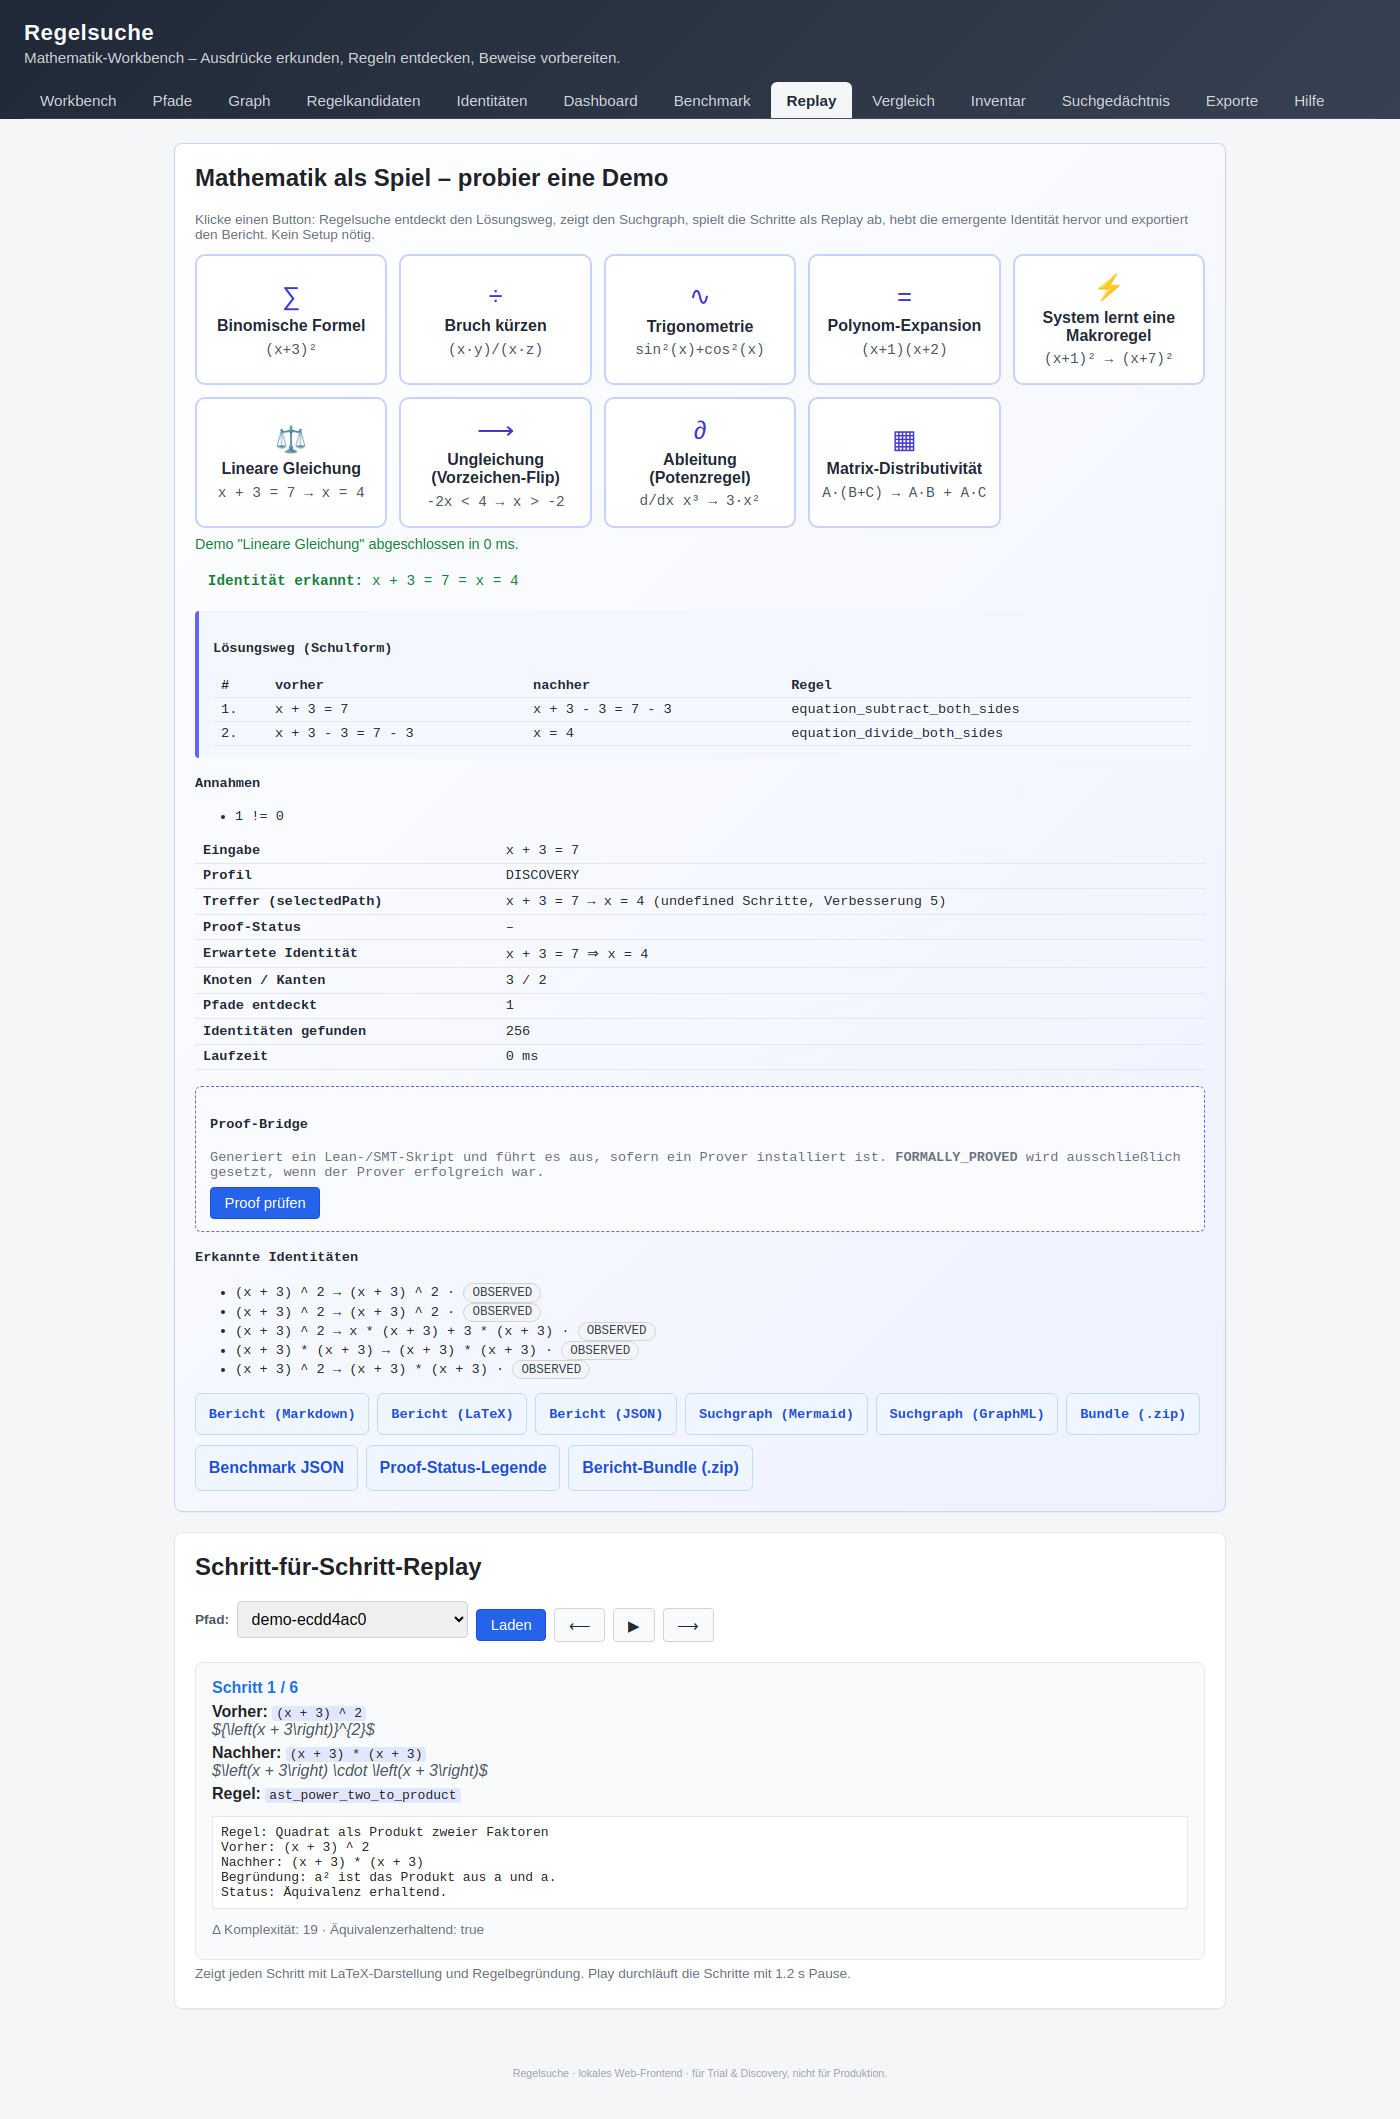
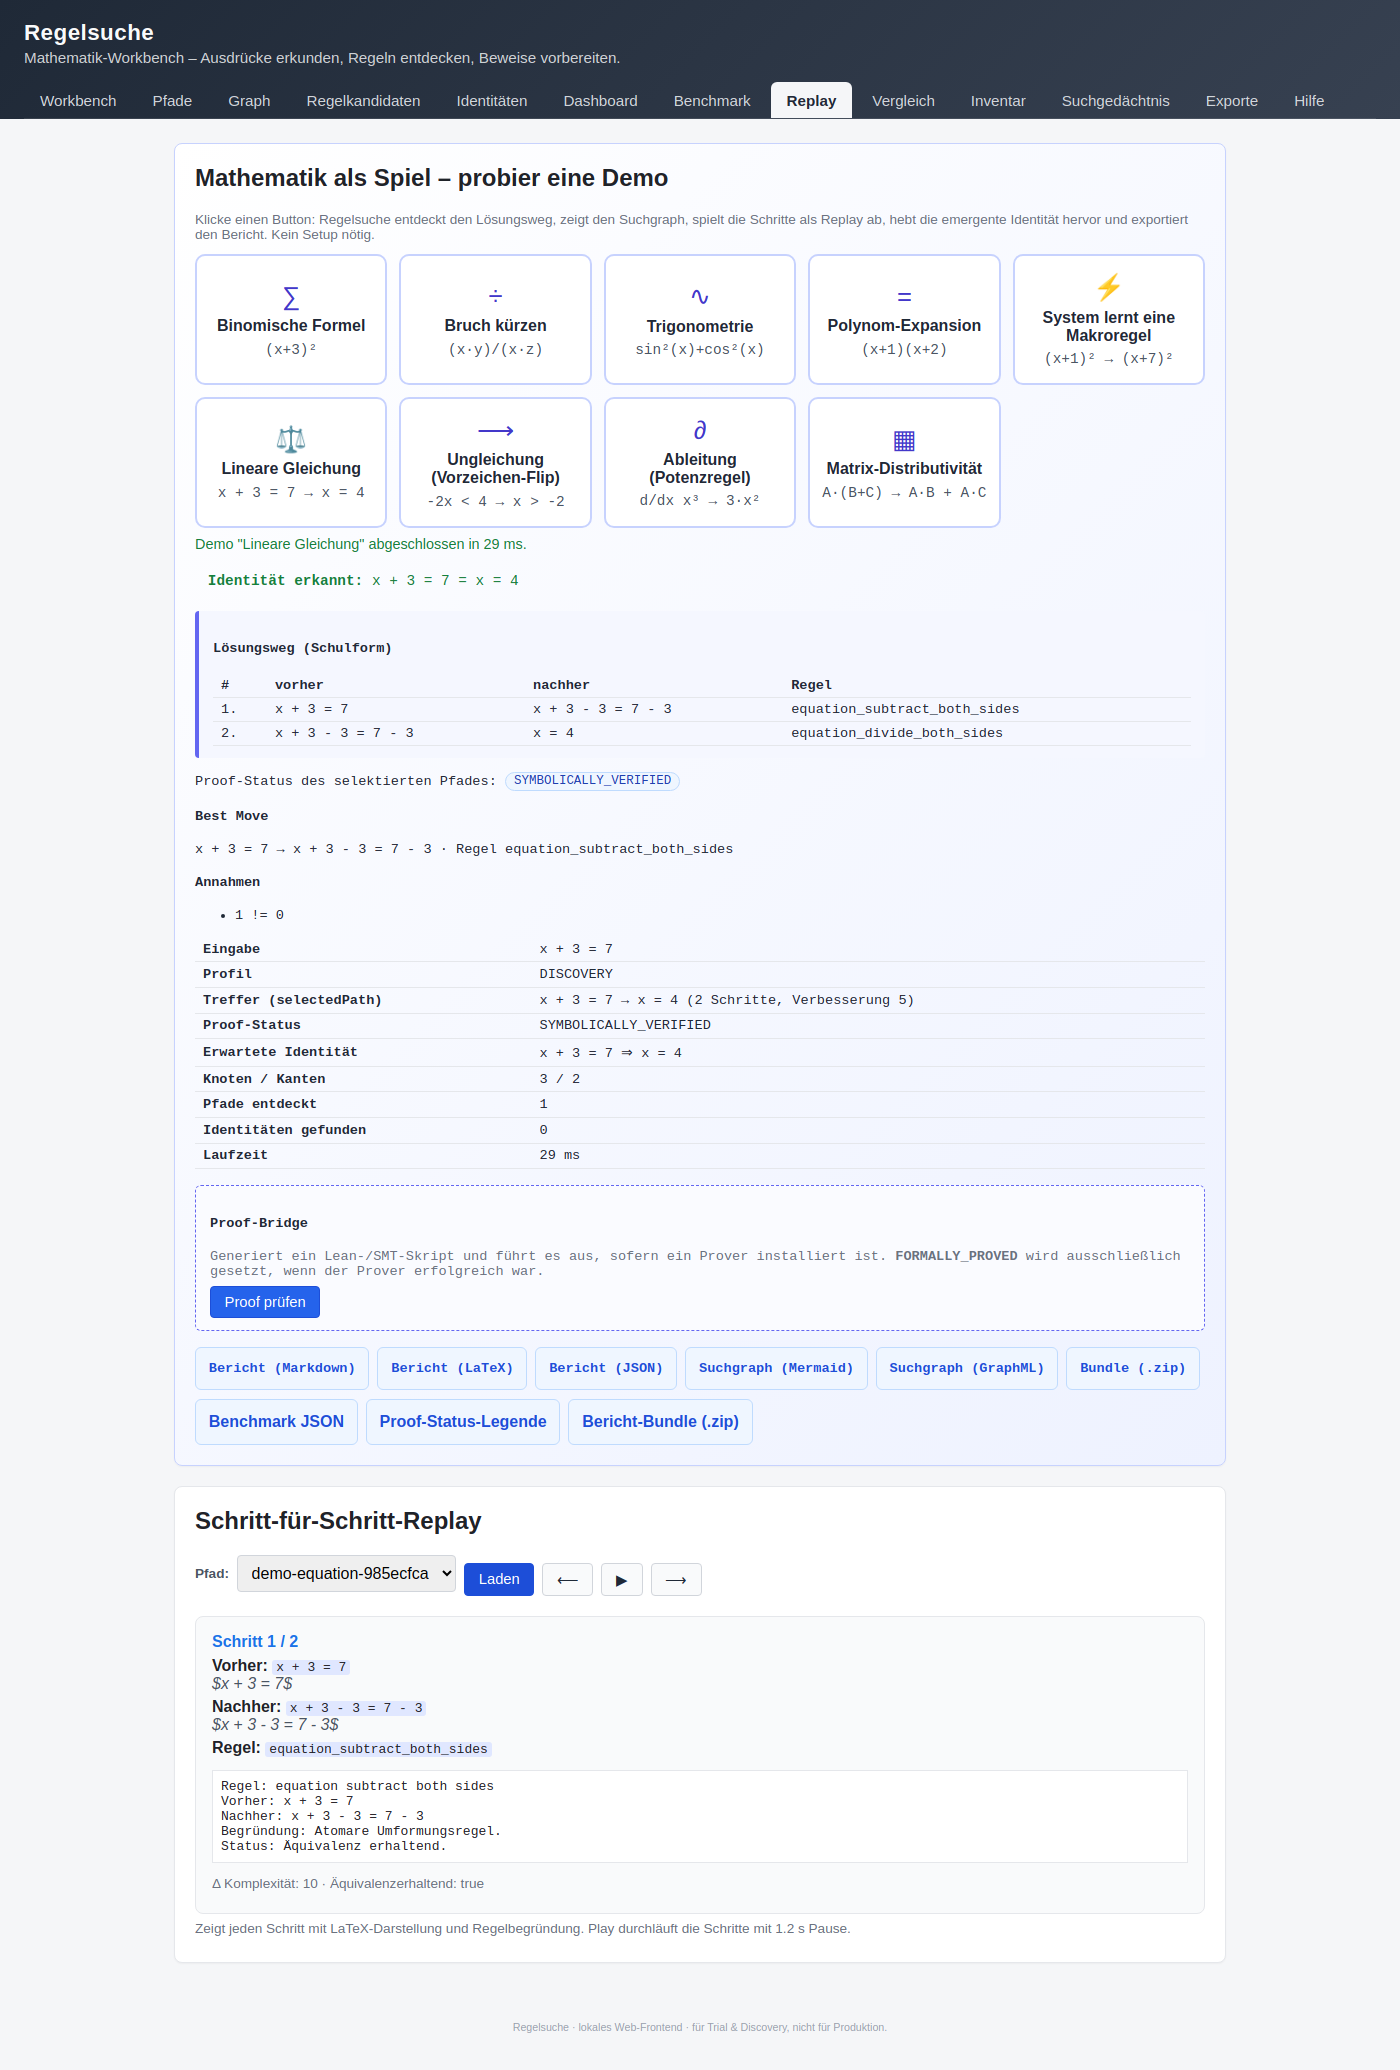
fix review follow-ups for proof bridge wiring, demo summary fields, and inequality soundness
Agent-Logs-Url: https://github.com/carstenartur/Regelsuche/sessions/8728372a-1311-4603-a06e-9c7bb78939f5

diff --git a/app/src/main/resources/web/app.js b/app/src/main/resources/web/app.js
@@ -125,6 +125,13 @@
         const identities = (data.identities || []).slice(0, 5);
         const targetReached = !!data.targetReached;
         const assumptions = data.assumptions || [];
+        const stepDetails = Array.isArray(selected.stepDetails)
+            ? selected.stepDetails
+            : (Array.isArray(selected.steps) ? selected.steps : []);
+        const stepCount = typeof selected.steps === 'number'
+            ? selected.steps
+            : stepDetails.length;
+        const proofStatus = selected.proofStatus || selected.validationStatus || '';
 
         // Honest banner: identity recognised OR "no identity found, best path was…".
         const banner = targetReached
@@ -143,15 +150,15 @@
                     : '<em>kein Verbesserungsweg im Suchbudget gefunden</em>')
                 + '</div>';
 
-        const proofTag = selected.validationStatus
-            ? renderProofStatusBadge(selected.validationStatus)
+        const proofTag = proofStatus
+            ? renderProofStatusBadge(proofStatus)
             : '';
         const assumptionsBlock = assumptions.length
             ? '<h4>Annahmen</h4><ul>' + assumptions.map((a) =>
                 '<li><code>' + escapeHtml(a) + '</code></li>').join('') + '</ul>'
             : '';
-        const bestMove = (selected.steps && selected.steps.length)
-            ? selected.steps[0]
+        const bestMove = stepDetails.length
+            ? stepDetails[0]
             : null;
         const bestMoveBlock = bestMove
             ? '<h4>Best Move</h4><p><code>' + escapeHtml(bestMove.beforeExpression || '')
@@ -165,10 +172,10 @@
             ['Treffer (selectedPath)',
                 selected.improvedExpression
                     ? selected.originalExpression + ' → ' + selected.improvedExpression
-                      + ' (' + (selected.steps ? selected.steps.length : 0) + ' Schritte, Verbesserung '
+                      + ' (' + stepCount + ' Schritte, Verbesserung '
                       + (selected.totalImprovement || 0) + ')'
                     : '–'],
-            ['Proof-Status', selected.validationStatus || '–'],
+            ['Proof-Status', proofStatus || '–'],
             ['Erwartete Identität', data.expectedHighlight || ''],
             ['Knoten / Kanten', (m.nodes || 0) + ' / ' + (m.edges || 0)],
             ['Pfade entdeckt', m.pathsDiscovered || 0],

diff --git a/app/src/main/java/de/regelsuche/web/WebWorkbenchServer.java b/app/src/main/java/de/regelsuche/web/WebWorkbenchServer.java
@@ -72,6 +72,8 @@ public class WebWorkbenchServer {
     private final ExportQueryService exportQuery;
     private final ExplanationService explanationService = new ExplanationService();
     private final de.regelsuche.search.memory.SearchMemory searchMemory;
+    private final de.regelsuche.proof.ProofBridgeService leanProofBridgeService;
+    private final de.regelsuche.proof.ProofBridgeService smtProofBridgeService;
 
     private HttpServer server;
 
@@ -105,6 +107,22 @@ public class WebWorkbenchServer {
         WebSecurityConfig securityConfig,
         de.regelsuche.search.memory.SearchMemory searchMemory
     ) {
+        this(host, port, graphStore, inventoryRepository, exportService, securityConfig, searchMemory,
+            defaultProofBridgeService(new de.regelsuche.proof.LeanProofBridge()),
+            defaultProofBridgeService(new de.regelsuche.proof.SmtProofBridge()));
+    }
+
+    public WebWorkbenchServer(
+        String host,
+        int port,
+        ExpressionGraphStore graphStore,
+        RuleInventoryRepository inventoryRepository,
+        TransformationExportService exportService,
+        WebSecurityConfig securityConfig,
+        de.regelsuche.search.memory.SearchMemory searchMemory,
+        de.regelsuche.proof.ProofBridgeService leanProofBridgeService,
+        de.regelsuche.proof.ProofBridgeService smtProofBridgeService
+    ) {
         this.host = host;
         this.port = port;
         this.graphStore = graphStore;
@@ -112,9 +130,21 @@ public class WebWorkbenchServer {
         this.exportService = exportService;
         this.securityConfig = securityConfig == null ? WebSecurityConfig.none() : securityConfig;
         this.searchMemory = searchMemory == null ? new de.regelsuche.search.memory.SearchMemory() : searchMemory;
+        this.leanProofBridgeService = leanProofBridgeService == null
+            ? defaultProofBridgeService(new de.regelsuche.proof.LeanProofBridge())
+            : leanProofBridgeService;
+        this.smtProofBridgeService = smtProofBridgeService == null
+            ? defaultProofBridgeService(new de.regelsuche.proof.SmtProofBridge())
+            : smtProofBridgeService;
         this.transformationQuery = new TransformationQueryService(graphStore);
         this.inventoryQuery = new RuleInventoryQueryService(graphStore, inventoryRepository);
         this.exportQuery = new ExportQueryService(graphStore, inventoryRepository);
+    }
+
+    private static de.regelsuche.proof.ProofBridgeService defaultProofBridgeService(
+        de.regelsuche.proof.ProofBridge bridge
+    ) {
+        return new de.regelsuche.proof.ProofBridgeService(bridge);
     }
 
     public void start() throws IOException {
@@ -1090,6 +1120,7 @@ public class WebWorkbenchServer {
                 new de.regelsuche.transform.AstRewriteTransformationEngine(
                     de.regelsuche.demo.DemoRuleSet.rules()),
                 searchMemory);
+        demoService.useProofBridge(leanProofBridgeService);
         de.regelsuche.demo.DemoService.DemoRunResult result = demoService.run(demo);
         sendJson(exchange, 200, renderDemoBundle(result));
     }
@@ -1252,11 +1283,8 @@ public class WebWorkbenchServer {
             return;
         }
         String tool = stringValue(body, "tool", "lean4").toLowerCase(java.util.Locale.ROOT);
-        de.regelsuche.proof.ProofBridge bridge = "smt".equals(tool)
-            ? new de.regelsuche.proof.SmtProofBridge()
-            : new de.regelsuche.proof.LeanProofBridge();
         de.regelsuche.proof.ProofBridgeService service =
-            new de.regelsuche.proof.ProofBridgeService(bridge);
+            "smt".equals(tool) ? smtProofBridgeService : leanProofBridgeService;
         List<de.regelsuche.assumption.Assumption> assumptions = new java.util.ArrayList<>();
         Object raw = body.get("assumptions");
         if (raw instanceof List<?> list) {

diff --git a/app/src/test/java/de/regelsuche/web/WebWorkbenchServerTest.java b/app/src/test/java/de/regelsuche/web/WebWorkbenchServerTest.java
@@ -7,6 +7,10 @@ import static org.junit.jupiter.api.Assertions.assertTrue;
 import de.regelsuche.export.DefaultTransformationExportService;
 import de.regelsuche.graph.InMemoryExpressionGraphStore;
 import de.regelsuche.inventory.InMemoryRuleInventoryRepository;
+import de.regelsuche.mining.CandidateProofStatus;
+import de.regelsuche.proof.ProofBridge;
+import de.regelsuche.proof.ProofBridgeService;
+import de.regelsuche.proof.ProverExecutor;
 import de.regelsuche.search.memory.InMemoryTranspositionTable;
 import de.regelsuche.search.memory.SearchMemory;
 import de.regelsuche.search.memory.TranspositionEntry;
@@ -16,6 +20,7 @@ import java.net.HttpURLConnection;
 import java.net.URI;
 import java.nio.charset.StandardCharsets;
 import java.time.Instant;
+import java.util.List;
 import java.util.Set;
 import org.junit.jupiter.api.AfterEach;
 import org.junit.jupiter.api.BeforeEach;
@@ -116,6 +121,48 @@ class WebWorkbenchServerTest {
         assertEquals(200, connection.getResponseCode());
         String body = new String(connection.getInputStream().readAllBytes(), StandardCharsets.UTF_8);
         assertTrue(body.contains("\"size\":1"), body);
+    }
+
+    @Test
+    void injectedProofBridgeServiceIsUsedByDemoAndProofBridgeEndpoints() throws IOException {
+        server.stop();
+        ProofBridge provingBridge = (left, right, assumptions) ->
+            new ProofBridge.ProofAttempt(CandidateProofStatus.FORMALLY_PROVABLE, "theorem demo", "lean4");
+        ProverExecutor successExecutor = new ProverExecutor(List.of("cat"), "lean4", ".lean");
+        ProofBridgeService provingService = new ProofBridgeService(provingBridge, null, successExecutor);
+        server = new WebWorkbenchServer(
+            "127.0.0.1",
+            0,
+            new InMemoryExpressionGraphStore(),
+            new InMemoryRuleInventoryRepository(),
+            new DefaultTransformationExportService(),
+            WebSecurityConfig.none(),
+            new SearchMemory(),
+            provingService,
+            provingService
+        );
+        server.start();
+
+        HttpURLConnection demo = open("/api/demo/math-equation");
+        demo.setRequestMethod("POST");
+        demo.setDoOutput(true);
+        String demoBody = new String(demo.getInputStream().readAllBytes(), StandardCharsets.UTF_8);
+        assertTrue(demoBody.contains("\"proofOutcome\""), demoBody);
+        assertTrue(demoBody.contains("\"proverStatus\":\"PROVER_CONFIRMED\""), demoBody);
+        assertTrue(demoBody.contains("\"proofStatus\":\"FORMALLY_PROVED\""), demoBody);
+
+        HttpURLConnection proof = open("/api/proof-bridge");
+        proof.setRequestMethod("POST");
+        proof.setDoOutput(true);
+        proof.setRequestProperty("Content-Type", "application/json");
+        try (OutputStream stream = proof.getOutputStream()) {
+            stream.write("{\"leftPattern\":\"x + 3 = 7\",\"rightPattern\":\"x = 4\",\"tool\":\"lean4\"}"
+                .getBytes(StandardCharsets.UTF_8));
+        }
+        assertEquals(200, proof.getResponseCode());
+        String proofBody = new String(proof.getInputStream().readAllBytes(), StandardCharsets.UTF_8);
+        assertTrue(proofBody.contains("\"proverStatus\":\"PROVER_CONFIRMED\""), proofBody);
+        assertTrue(proofBody.contains("\"proofStatus\":\"FORMALLY_PROVED\""), proofBody);
     }
 
     private HttpURLConnection open(String path) throws IOException {

diff --git a/app/src/main/java/de/regelsuche/inequality/InequalityRewriteEngine.java b/app/src/main/java/de/regelsuche/inequality/InequalityRewriteEngine.java
@@ -20,9 +20,8 @@ import java.util.Objects;
  *       constant: the comparator stays the same for a strictly positive
  *       factor, <em>flips</em> for a strictly negative factor, and the
  *       (degenerate) zero case is rejected because it collapses the
- *       inequality to {@code 0 ⋈ 0}. For non-literal multipliers the
- *       transformation surfaces an assumption capturing the sign that the
- *       caller must justify.</li>
+ *       inequality to {@code 0 ⋈ 0}. To keep the rewrite sound, only
+ *       numeric literal factors are accepted.</li>
  * </ul>
  */
 public final class InequalityRewriteEngine {
@@ -69,6 +68,10 @@ public final class InequalityRewriteEngine {
     public InequalityStep multiplyBothSides(Inequality inequality, Expr factor) {
         Objects.requireNonNull(inequality, "inequality");
         Objects.requireNonNull(factor, "factor");
+        if (!(factor instanceof NumberExpr)) {
+            throw new IllegalArgumentException(
+                "multiplyBothSides requires a numeric literal factor");
+        }
         if (factor instanceof NumberExpr number && number.value() == 0.0) {
             throw new IllegalArgumentException("Cannot multiply an inequality by zero");
         }
@@ -100,6 +103,10 @@ public final class InequalityRewriteEngine {
     public InequalityStep divideBothSides(Inequality inequality, Expr divisor) {
         Objects.requireNonNull(inequality, "inequality");
         Objects.requireNonNull(divisor, "divisor");
+        if (!(divisor instanceof NumberExpr)) {
+            throw new IllegalArgumentException(
+                "divideBothSides requires a numeric literal divisor");
+        }
         if (divisor instanceof NumberExpr number && number.value() == 0.0) {
             throw new IllegalArgumentException("Cannot divide an inequality by zero");
         }
@@ -120,7 +127,6 @@ public final class InequalityRewriteEngine {
         java.util.List<Assumption> assumptions = new java.util.ArrayList<>();
         assumptions.add(Assumption.nonZero(formatted));
         assumptions.addAll(assumptionsForMultiplier(divisor, sign));
-        // Deduplicate: a strict positive/negative assumption already implies non-zero.
         return new InequalityStep(
             "inequality_divide_both_sides",
             next,

diff --git a/app/src/test/java/de/regelsuche/inequality/LinearInequalitySolverTest.java b/app/src/test/java/de/regelsuche/inequality/LinearInequalitySolverTest.java
@@ -58,6 +58,15 @@ class LinearInequalitySolverTest {
     }
 
     @Test
+    void nonLiteralFactorIsRejectedForSoundness() {
+        Inequality input = new Inequality(parse("x"), Comparator.LT, parse("3"));
+        assertThrows(IllegalArgumentException.class,
+            () -> engine.multiplyBothSides(input, parse("k")));
+        assertThrows(IllegalArgumentException.class,
+            () -> engine.divideBothSides(input, parse("k")));
+    }
+
+    @Test
     void divideBothSidesSurfacesNonZeroAssumption() {
         Inequality input = new Inequality(parse("2*x"), Comparator.GT, parse("4"));
         InequalityStep step = engine.divideBothSides(input, new NumberExpr(2));

diff --git a/app/src/test/java/de/regelsuche/demo/MathDomainProductIntegrationTest.java b/app/src/test/java/de/regelsuche/demo/MathDomainProductIntegrationTest.java
@@ -111,6 +111,8 @@ class MathDomainProductIntegrationTest {
         assertTrue(bundle.contains("\"id\":\"math-equation\""));
         assertTrue(bundle.contains("\"targetReached\":true"),
             "equation demo must reach its target: " + bundle);
+        assertTrue(bundle.contains("\"proofOutcome\""),
+            "math-domain demos must include proofOutcome metadata: " + bundle);
         // The bundle exposes a non-empty selectedPath – i.e. the demo went
         // through the regular discovered-transformation pipeline, not a side
         // channel.

diff --git a/docs/math-domains.md b/docs/math-domains.md
@@ -18,7 +18,7 @@ Alle vier Demos werden im
 ausgeführt; der `DemoService` delegiert lediglich. Demo-JSON enthält
 deshalb für jede Math-Domain-Demo:
 
-* `expressionType` — `EQUATION`, `INEQUALITY`, `DERIVATIVE`, `MATRIX`,
+* `expressionType` — `EQUATION`, `INEQUALITY`, `TERM` (für Ableitungen), `MATRIX`,
 * `LaTeX` für vorher/nachher,
 * `proofOutcome` (`OBSERVED`, `VALIDATED_BY_EXAMPLES`,
   `SYMBOLICALLY_VERIFIED`, `FORMALLY_PROVED`),
